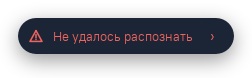
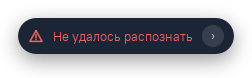
M4-B: пилюля — «›» в состоянии error как «×», детерминированные снимки; DesignReviewer PASS
- qml/Pill.qml: кнопка «подробности» — Rectangle 22×22 radius 11, pillCloseBg/pillCloseFg, знак 13 px (макет _base.py .pill .x); клик-зона прежняя
- freezeAnimations (по умолчанию false, только на съёмке): спиннер и пульсация точек в нулевой фазе — два прогона дают побайтно те же 10 PNG; тест детерминизма по sha256 для 10 видимых состояний; вид «›» зафиксирован в тесте; assert setProperty
- пересняты error/loading-model/processing (остальные 7 совпали байт в байт)
- DesignReviewer: повторная сверка PASS, 0 расхождений (5/5 прошлых пунктов + «›»); ревью Claude PASS; T-63 [x]; plans/status

Changed region(s): [[0.8056, 0.3077, 0.8889, 0.6154]]

diff --git a/qml/Pill.qml b/qml/Pill.qml
@@ -15,6 +15,7 @@ Item {
     readonly property real iconSmall: 15 // design/spec.md §8.4: alert, clock, file, x, «—».
     readonly property real iconLarge: 16 // design/spec.md §8.4: refresh, check, alert ошибки.
     readonly property real closeSize: 22 // design/spec.md §8.2: кнопка 22 × 22.
+    readonly property real closeGlyphSize: 13 // design/mockups/directions/_base.py .pill .x: кегль знака.
     readonly property real dotWidth: 5 // design/spec.md §8.4: ширина точек processing.
     readonly property var dotHeights: [5, 9, 5] // design/spec.md §8.4: три точки, высоты 5/9/5.
     readonly property real pulseOpacity: 0.5 // design/spec.md §8.4: пульсация; минимум выбран без гашения.
@@ -33,6 +34,8 @@ Item {
     property string avState: "hidden"
     property string label: ""
     property var levels: []
+    // Только для детерминированной съёмки в тестах; в программе анимации включены.
+    property bool freezeAnimations: false
 
     signal cancelClicked()
     signal detailsClicked()
@@ -219,6 +222,7 @@ Item {
                 model: root.dotHeights
 
                 Rectangle {
+                    id: dot
                     required property int index
                     required property real modelData
 
@@ -232,7 +236,9 @@ Item {
 
                     SequentialAnimation on opacity {
                         running: root.active && root.visible && root.processing
+                            && !root.freezeAnimations
                         loops: Animation.Infinite
+                        onStopped: if (root.freezeAnimations) dot.opacity = 1
                         NumberAnimation {
                             from: 1
                             to: root.pulseOpacity
@@ -270,7 +276,7 @@ Item {
                 duration: root.spinnerDuration
                 easing.type: Easing.Linear
                 loops: Animation.Infinite
-                running: root.active && root.visible && root.loading
+                running: root.active && root.visible && root.loading && !root.freezeAnimations
                 // Общий глиф после спиннера должен снова быть повёрнут на ноль градусов.
                 onStopped: glyph.rotation = 0
             }
@@ -323,18 +329,21 @@ Item {
             }
         }
 
-        Item {
+        Rectangle {
             visible: root.error
             width: root.closeSize
             height: root.closeSize
             y: (content.height - height) / 2
+            radius: width / 2
+            color: PillTheme.pillCloseBg
+            antialiasing: true
 
             Text {
                 anchors.centerIn: parent
                 text: "›"
                 font.family: root.textFamily
-                font.pixelSize: root.iconSmall
-                color: PillTheme.pillError
+                font.pixelSize: root.closeGlyphSize
+                color: PillTheme.pillCloseFg
                 renderType: Text.NativeRendering
             }
 

diff --git a/tests/xvfb/test_pill_states.py b/tests/xvfb/test_pill_states.py
@@ -16,6 +16,7 @@ import sys
 import tempfile
 from collections.abc import Iterator
 from dataclasses import dataclass
+from hashlib import sha256
 from math import ceil, floor
 from pathlib import Path
 from typing import Any
@@ -63,12 +64,24 @@ class TextMeasurement:
 
 
 @dataclass
+class DetailsButtonMeasurement:
+    visible: bool
+    background_visible: bool
+    radius: float
+    background_color: str
+    background_alpha: float
+    font_pixel_size: int
+    color: str
+
+
+@dataclass
 class RenderedState:
     width: float
     height: float
     visible: bool
     item_visible: bool
     close_visible: bool
+    details_button: DetailsButtonMeasurement
     texts: list[TextMeasurement]
     bars: list[tuple[int, float, float, str]]
     messages: list[str]
@@ -121,7 +134,12 @@ def assert_saved_snapshot(state: str, rendered: RenderedState) -> None:
 
 
 def capture_state(
-    app: Any, state: str, *, text: str | None = None, snapshot_dir: Path
+    app: Any,
+    state: str,
+    *,
+    text: str | None = None,
+    snapshot_dir: Path,
+    extra_wait_ms: int = 0,
 ) -> RenderedState:
     from PyQt5 import sip
     from PyQt5.QtCore import QPointF, QUrl, qInstallMessageHandler
@@ -146,6 +164,9 @@ def capture_state(
         assert view.status() == QQuickView.Ready, [e.toString() for e in view.errors()]
         root = view.rootObject()
         assert root is not None
+        assert root.setProperty("freezeAnimations", True), (
+            f"{state}: в QML нет свойства freezeAnimations — заморозка анимаций не сработала"
+        )
         if state in INVISIBLE:
             # Проверяем настоящее скрытие уже показанного окна через Python-мост.
             pill.show_state(PillState.LISTENING)
@@ -159,7 +180,7 @@ def capture_state(
                 text = LABELS[state]
             pill.show_state(PillState(state), text=text)
         # Даём время на Row polish и глифы; завершение появления проверяем по PNG ниже.
-        QTest.qWait(180)
+        QTest.qWait(180 + extra_wait_ms)
         app.processEvents()
         assert root.property("avState") == state
         pill_width = float(root.property("pillWidth"))
@@ -226,12 +247,30 @@ def capture_state(
         texts = []
         bars = []
         close_buttons = []
+        details_buttons = []
         for item in visual_tree(root):
             meta = item.metaObject()
             # У кнопки «×» есть круглая подложка; глиф состояния cancelled — без неё.
             if item.property("name") == "x" and item.parentItem().property("radius") is not None:
                 close_buttons.append(item.parentItem())
             if meta.indexOfProperty("elide") >= 0:
+                if item.property("text") == "›":
+                    background = item.parentItem()
+                    assert background is not None and background.property("radius") is not None, (
+                        f"{state}: у кнопки «›» отсутствует круглая подложка"
+                    )
+                    background_color = background.property("color")
+                    details_buttons.append(
+                        DetailsButtonMeasurement(
+                            visible=item.isVisible(),
+                            background_visible=background.isVisible(),
+                            radius=float(background.property("radius")),
+                            background_color=background_color.name().upper(),
+                            background_alpha=background_color.alphaF(),
+                            font_pixel_size=int(item.property("font").pixelSize()),
+                            color=item.property("color").name().upper(),
+                        )
+                    )
                 left = item.mapToItem(root, QPointF(0, 0)).x()
                 texts.append(
                     TextMeasurement(
@@ -255,12 +294,16 @@ def capture_state(
                     )
                 )
         assert len(close_buttons) == 1, f"{state}: должна существовать одна кнопка «×»"
+        assert len(details_buttons) == 1, (
+            f"{state}: должна существовать одна кнопка «›», найдено {len(details_buttons)}"
+        )
         return RenderedState(
             width=pill_width,
             height=pill_height,
             visible=view.isVisible(),
             item_visible=root.isVisible(),
             close_visible=close_buttons[0].isVisible(),
+            details_button=details_buttons[0],
             texts=texts,
             bars=sorted(bars),
             messages=messages,
@@ -329,7 +372,28 @@ def test_pill_state(state: str, rendered_states: dict[str, RenderedState]) -> No
     assert rendered.close_visible == (state in {"listening", "listening-silent"}), (
         f"{state}: неверная видимость кнопки «×»"
     )
-    # Цвета, столбики и «×» измеряются в QML, независимо от полей снимка.
+    details = rendered.details_button
+    assert details.visible == (state == "error"), f"{state}: неверная видимость знака «›»"
+    assert details.background_visible == (state == "error"), (
+        f"{state}: неверная видимость подложки кнопки «›»"
+    )
+    if state == "error":
+        assert details.radius == 11, (
+            f"{state}: радиус подложки кнопки «›» {details.radius}, ожидался 11"
+        )
+        assert details.background_color == "#FFFFFF", (
+            f"{state}: цвет подложки кнопки «›» {details.background_color}, ожидался #FFFFFF"
+        )
+        assert abs(details.background_alpha - 0.12) <= 0.005, (
+            f"{state}: альфа подложки кнопки «›» {details.background_alpha}, ожидалась 0.12 ± 0.005"
+        )
+        assert details.font_pixel_size == 13, (
+            f"{state}: размер шрифта знака «›» {details.font_pixel_size} px, ожидался 13 px"
+        )
+        assert details.color == "#C4CDDC", (
+            f"{state}: цвет знака «›» {details.color}, ожидался #C4CDDC"
+        )
+    # Цвета, столбики, «×» и «›» измеряются в QML, независимо от полей снимка.
     # «—» и «›» — символы иконок со своими цветами по §8.4; здесь проверяется подпись.
     captions = [text for text in rendered.texts if text.text not in {"—", "›"}]
     assert len(captions) == 1
@@ -363,6 +427,27 @@ def test_pill_state(state: str, rendered_states: dict[str, RenderedState]) -> No
     elif state in {"listening-silent", "limit"}:
         assert len(rendered.bars) == 9
         assert all(height == 4 for _, _, height, _ in rendered.bars)
+
+
+@pytest.mark.parametrize("state", [state for state in LABELS if state not in INVISIBLE])
+def test_pill_snapshots_are_deterministic(
+    state: str,
+    pill_app: Any,
+    rendered_states: dict[str, RenderedState],
+    tmp_path: Path,
+) -> None:
+    first = rendered_states[state]
+    # Сдвигаем фазу на четверть периода, чтобы без заморозки сравнение падало
+    # даже при одинаковой скорости двух рендеров. Повторные PNG не публикуются.
+    second = capture_state(pill_app, state, snapshot_dir=tmp_path, extra_wait_ms=250)
+    assert not second.messages, f"{state}: сообщения Qt\n" + "\n".join(second.messages)
+    assert_saved_snapshot(state, second)
+    assert first.snapshot is not None and second.snapshot is not None
+    first_hash = sha256(first.snapshot.read_bytes()).hexdigest()
+    second_hash = sha256(second.snapshot.read_bytes()).hexdigest()
+    assert first_hash == second_hash, (
+        f"{state}: PNG зависит от времени съёмки: {first_hash} != {second_hash}"
+    )
 
 
 @pytest.mark.parametrize("state", [state for state in LABELS if state not in INVISIBLE])

diff --git a/docs/plans.md b/docs/plans.md
@@ -267,7 +267,7 @@ R14 гонка WirePlumber · `EBUSY` при эксклюзивном захва
 - [x] `platform/hotkey.py`: автомат PTT/toggle `Idle→Recording→Processing`, фильтр автоповтора, порог 0,3 с, лимит 120 с, `duplicate`/`not-grabbed`; интерфейс `HotkeyBackend` (X11; evdev P2) + unit на синтетических событиях.
 - [x] `platform/shortcuts_conflict.py`: `ShortcutConflictSource` — KDE парсер `kglobalshortcutsrc` (`Alt+F2` → «Открыть строку поиска и запуск»); FLY парсер `keyshortcutrc` (у заказчика пуст → откат на системный) + `FLYWM_*` → подпись из `<локаль>.miscrc` (например `ru_RU.UTF-8.miscrc`, откат `en`); нет подписи — честное «не знаю» + unit на реальных файлах.
 - [x] `platform/paste.py`: копия **всех** форматов `QMimeData` → только `text/plain` (+`x-kde-passwordManagerHint=secret`, P1) → 50 мс → комбинация по `WM_CLASS` (VTE-терминалы `konsole`, `fly-term`, `yakuake`, `alacritty` → `Ctrl+Shift+V`; **`xterm`, `rxvt` и неопознанные терминалы → `Shift+Insert` + PRIMARY** — S4 кейс G, решение р6-3: `Ctrl+Shift+V` даёт литеральный байт 026) → 100 мс → восстановить **только если буфер ещё наш** (`ownsClipboard`); исходник с hint=secret не восстанавливать → «Буфер очищен» (У11/У40, T-14); нормализация: `\r\n` → пробел, все C0/C1 (`\x00–\x1f`, `\x7f–\x9f`) удаляются, Enter не синтезируется; окно при вставке ≠ запомненному → только буфер + `clipboard-only` (У12, T-15); режим «только буфер»; ветка FLY — тип из чёрного списка клип-менеджера (по S4) + xvfb-тест с `TextEdit` и вторым окном.
-- [~] `ui/pill.py` + `qml/Pill.qml`: 12 состояний спеки §8.4 (`hidden · loading-model · listening · listening-silent · limit · processing · done 500 · clipboard-only 1200 · empty 1000 · cancelled 800 · error 3000 · disabled`), ширина 172→320 без elide, 9 столбиков `h=max(3,round(l*20))`, «×», позиция У10 (низ по центру `availableGeometry` монитора активного окна, 48 px; struts при расхождении), показ ≤ 100 мс, re-assert «наверх» + проверка перекрытия; ветка FLY — атомы анимации; без композитора — XShape; глиф `clock` (У8), спиннер 1 об/с (У9) — референс `design/refs/09-pill.png` (+`-dark`); xvfb-скриншоты 12 состояний. **2026-09-14 (зона B): ревью DesignReviewer закрыто — размер окна детерминирован (контент + поля 18/18/18 и 24 снизу, тест на все 12 состояний), снимки пересняты после завершения fade-in (альфа фона 240) и сохраняются атомарно, `processing` и `cancelled` больше не обрезаются, плоские столбики `limit` = 4 px (`bar-h-flat`), как в `listening-silent`. ИБ T2 (У52/У54) закрыт: `_NET_WM_DESKTOP=0xFFFFFFFF`, перекрытие по стеку и геометрии, режим совместимости индикатора при полноэкранном активном окне, `visible` без насоса событий. Снимки: `design/refs/impl/pill/*.png` (10 видимых состояний). ОСТАЛОСЬ: [ ] повторная сверка DesignReviewer по пересняты снимкам; [ ] живой прогон в KDE и во Fly (Alt+Tab, панель, струты, CPU ≤ 3 %, показ ≤ 100 мс на реальном WM).**
+- [~] `ui/pill.py` + `qml/Pill.qml`: 12 состояний спеки §8.4 (`hidden · loading-model · listening · listening-silent · limit · processing · done 500 · clipboard-only 1200 · empty 1000 · cancelled 800 · error 3000 · disabled`), ширина 172→320 без elide, 9 столбиков `h=max(3,round(l*20))`, «×», позиция У10 (низ по центру `availableGeometry` монитора активного окна, 48 px; struts при расхождении), показ ≤ 100 мс, re-assert «наверх» + проверка перекрытия; ветка FLY — атомы анимации; без композитора — XShape; глиф `clock` (У8), спиннер 1 об/с (У9) — референс `design/refs/09-pill.png` (+`-dark`); xvfb-скриншоты 12 состояний. **2026-09-14 (зона B): ревью DesignReviewer закрыто — размер окна детерминирован (контент + поля 18/18/18 и 24 снизу, тест на все 12 состояний), снимки пересняты после завершения fade-in (альфа фона 240) и сохраняются атомарно, `processing` и `cancelled` больше не обрезаются, плоские столбики `limit` = 4 px (`bar-h-flat`), как в `listening-silent`. ИБ T2 (У52/У54) закрыт: `_NET_WM_DESKTOP=0xFFFFFFFF`, перекрытие по стеку и геометрии, режим совместимости индикатора при полноэкранном активном окне, `visible` без насоса событий. Снимки: `design/refs/impl/pill/*.png` (10 видимых состояний). ОСТАЛОСЬ: [x] повторная сверка DesignReviewer по пересняты снимкам — **PASS 2026-09-14, 0 расхождений** (5/5 прошлых пунктов закрыты с числами; шестое — «›» в `error` приведено к виду «×»; снимки детерминированы, `freezeAnimations` только на съёмке); [ ] живой прогон в KDE и во Fly (Alt+Tab, панель, струты, CPU ≤ 3 %, показ ≤ 100 мс на реальном WM).**
 - [x] Инвариант О4 (`ui/indicators.py`): запись идёт, пока виден ≥ 1 индикатор; потеря SNI во время записи → пилюля принудительно; потеря всех → стоп + уведомление. **2026-09-11: реализовано (`indicator_visible`, `IndicatorGuard`), покрыто unit.**
 - [x] `ui/tray.py` + `ui/tray_icons.py`: `QSystemTrayIcon`, 6 состояний (`idle · listening · processing · done · error · nokey`), подсказки, ретрай регистрации ≤ 30 с (watcher на шине); `TrayIconProvider`: KDE — по имени из hicolor `status/astravoice-tray-{idle,listening,processing,done,error,nokey}` (перекраска; префикс без дефиса — иначе KIconLoader срезает до `astra`, spec §9.1), FLY — SVG явных цветов по яркости панели; меню спеки §9.2 (состав/неактивность: «Готов/Слушаю…» · «Отмена» · «Модель ▸» · «Скопировать последний текст» · «Настройки…» `Ctrl+,` · «Проверить обновления» · «О программе» · «Выход» `Ctrl+Q`) — референс `design/refs/09-tray.png` (+`-dark`); баннер «трей недоступен» > 30 с; xvfb-ветка `isSystemTrayAvailable()=false`. **2026-09-14 (зона B): ИБ T2 закрыт — У51 (в KDE значок доказан только при живом `org.kde.plasmashell`), У55 (показ только после подтверждённого `IsStatusNotifierHostRegistered`; ранний `isSystemTrayAvailable()` не зовём — Qt кэширует первый отрицательный ответ в generic/Fly), У53 (работа с шиной вынесена из GUI-потока: `start`/`registered`/`set_state`/`stop` не блокируют), У56 (`serviceOwnerChanged`, чистка устаревшего баннера через `notify.drop_pending`). Иконки: правила `.st` вынесены из `<style id="current-color-scheme">` в отдельный `<style>` (KIconLoader заменяет первый при перекраске), тёмные варианты цветов состояний убраны — один цвет на состояние по spec §9.1; правится генератор `design/brand/_build-logo-pack.py`, тест структуры `tests/unit/test_tray_icon_svg.py`. ОСТАЛОСЬ: [ ] живой прогон в KDE и во Fly (Plasma рисует наш знак и перекрашивает его под панель; меню на реальной панели).**
 - [x] Оркестрация в `app.py`: активное окно запоминается **до** показа пилюли; `record.start{device,limit_s,silence_db,insert,utterance_id}`/`stop`/`cancel`; очередь 1 (S14-A2); крах воркера во время записи/обработки → пилюля `error` «Распознавание перезапущено», вставки нет, таймеры вставки отменены (О1); «последний текст» только в памяти GUI. **2026-09-11: автомат — `core/dictation.py`, проводка в Qt — `runtime.py`, включение — `app.py`; поздний результат старого поколения отбрасывается, перезапуск воркера даёт `error`. Живой прогон в KDE и Fly — не сделан.**

diff --git a/docs/test-plan.md b/docs/test-plan.md
@@ -129,9 +129,9 @@
 | T-58 | U | негативный кейс (У59): «Скопировать последний текст» → в `QMimeData` буфера есть `x-kde-passwordManagerHint=secret` (и Fly-тип в сеансе Fly), `text/plain` = фраза; журнал и уведомления без фразы | M4 | [ ] |
 | T-59 | U | негативный кейс (У60): фейковый воркер отвечает `record.limit`, затем на `record.stop` — `error{bad-state}`, на `recognize` — `result` → оркестратор доставляет фразу (`pasted`), пилюля без «ошибка», `fsm.state == IDLE` после завершения | M4 | [ ] |
 | T-60 | U | негативный кейс (У61): `record.cancel` без ответа 1,5 с → отправлен `audio.close`; нет `audio.closed` ещё 2 с → `supervisor.stop()`/перезапуск вызван; `record.cancel` бросает при отправке → тот же путь | M4 | [ ] |
-| T-61 | U | гейт Qt-окружения (урок 005, правило 5): при обязательном Qt (`-m unit/xvfb` или `ASTRA_VOICE_REQUIRE_QT=1`) подпроцесс проверяет плагин SVG (`QImageReader`) и QML-модули QtQuick/Controls/Layouts/Shapes + `QtObject`; провал → `UsageError` с именами пакетов Debian; без обязательного Qt не запускается; ровно один запуск на сессию; разбор вывода покрыт без реального Qt | M4 | [ ] |
-| T-62 | I | плавающий сбой движка в CI (пустой текст на `732a116`, `e117e1b`): job `engine` печатает CPU раннера (model name, nproc, SIMD-флаги); сообщения assert'ов `test_engine_gigaam.py` содержат `_diag` (repr текста, infer_ms, cancelled, engine_version, onnxruntime, providers, CPU); условия assert'ов не ослаблены, retry нет | M4 | [ ] |
-| T-63 | X | снимки пилюли детерминированы: два прогона `tests/xvfb/test_pill_states.py` подряд дают побайтно одинаковые 10 PNG (анимации спиннера/точек — в фиксированной фазе); `error.png`: «›» — круг 22×22 RGBA≈(44,53,68,242) с правым краем x=224, знак #C4CDDC (как «×») | M4 | [ ] |
+| T-61 | U | гейт Qt-окружения (урок 005, правило 5): при обязательном Qt (`-m unit/xvfb` или `ASTRA_VOICE_REQUIRE_QT=1`) подпроцесс проверяет плагин SVG (`QImageReader`) и QML-модули QtQuick/Controls/Layouts/Shapes + `QtObject`; провал → `UsageError` с именами пакетов Debian; без обязательного Qt не запускается; ровно один запуск на сессию; разбор вывода покрыт без реального Qt | M4 | [x] 514956a: CI unit зелёный с гейтом; 138 тестов гейта |
+| T-62 | I | плавающий сбой движка в CI (пустой текст на `732a116`, `e117e1b`): job `engine` печатает CPU раннера (model name, nproc, SIMD-флаги); сообщения assert'ов `test_engine_gigaam.py` содержат `_diag` (repr текста, infer_ms, cancelled, engine_version, onnxruntime, providers, CPU); условия assert'ов не ослаблены, retry нет | M4 | [x] 514956a: шаг «CPU раннера» в логе, _diag в assert'ах; проверка гипотезы — на следующем сбое |
+| T-63 | X | снимки пилюли детерминированы: два прогона `tests/xvfb/test_pill_states.py` подряд дают побайтно одинаковые 10 PNG (анимации спиннера/точек — в фиксированной фазе); `error.png`: «›» — круг 22×22 RGBA≈(44,53,68,242) с правым краем x=224, знак #C4CDDC (как «×») | M4 | [x] Юрка: два прогона подряд — 10 PNG побайтно одинаковы; DesignReviewer PASS по error.png |
 
 Руками Юрки на машине (threat-model §8, до T3/R2): T-12, T-13, T-14, T-18, T-25, T-29, T-34, T-35, T-42, T-45 (живые Kate/Konsole/Firefox/LibreOffice/fly-term после пробы захвата), хоткей и вставка при активной ru-группе и `grp:ctrl_shift_toggle` (S4 PASS; при расхождении — дамп `xkbcomp -xkb "$DISPLAY" -`). T2 security-analyst — на каждый диф `helper/`, `security/`, `updates/`, `net/`.
 

diff --git a/docs/status.md b/docs/status.md
@@ -62,6 +62,10 @@
 
 - 2026-09-14: Юрка — **пробел M4, найден при подготовке пробы заказчиком**: GUI (`DictationRuntime.start()`) никогда не шлёт `model.load`; единственный отправитель — отладочный `--debug-transcribe` (`app.py::_debug_model_request`); воркер на `recognize` без движка отвечает `no-model`. В сборке `0.1.0~m4` хоткей запишет звук, а распознать нечем; `dictate50.sh` («дождитесь загрузки модели») невыполним. Каталог/онбординг — M5, но цикл диктовки без загрузки модели живьём не принять. Решение: минимальный мостик — общий построитель запроса `core/model_request.py`, `model.load` при старте и после перезапуска воркера по `model_dir`/`model_id`+`model_revision` из `settings.extra`, пилюля `loading-model`/`error` простым языком, без UI выбора модели (это M5). Сборка `0.1.0~m4.1`.
 
+- 2026-09-14: Юрка — CI на `514956a` **зелёный 6/6** (run 34843657009): job `unit` с гейтом Qt-окружения, `engine` 11 passed. Первый факт для гипотезы о плавающем сбое: зелёный `engine` шёл на **AMD EPYC 7763, 4 vCPU, SIMD только avx2** (без VNNI/avx512). Значит, если сбой зависит от CPU, красные прогоны (`732a116`, `e117e1b`) были на Intel Xeon (avx512+VNNI); подтвердится строкой «CPU раннера» на следующем сбое.
+
+- 2026-09-14: Юрка — пилюля: DesignReviewer **PASS** (0 расхождений; «›» в `error` как «×»; снимки детерминированы), ревью Claude PASS (два minor в тесте закрываются перед коммитом). Отложенные nit вне дифа: `src/astra_voice/ui/pill.py` `_visibility_changed` падает `RuntimeError: wrapped C/C++ object … QQuickView has been deleted`, если `QQuickView` разрушен раньше `Pill` (порядок разборки в тестах правильный, в программе проверить при shutdown — M5/M11); minor 3 ревью CI (`qml-module-qtquick-window2`/`qtgraphicaleffects` не подтверждены гейтом).
+
 ## Smoke / demo checks
 - [~] M0: `arch/spikes/S*.md` — 5 вердиктов; S1/S4/S5 отдельно для KDE и Fly; S3 `[x]` (таблица p95/VmHWM на 1.24.4 — `arch/spikes/S3.md` §4).
 - [~] M1: живой прогон на KDE заказчика 2026-09-09 (`spikes/m1_live/`, лог `out/live_kde_*`): `--version` и `apt install` — PASS; окно **900×588** клиентской + рамка 4/4/28/4 = **908×620** внешней, `WM_NAME`/`_NET_WM_NAME` «Astra Voice», `_KDE_NET_WM_DESKTOP_FILE=astra-voice`, `min 900×588`, журнал «сеанс=KDE политика=absent», QML-warnings 0; single-instance — код 0 за **0,15 с**, «получена команда show» в журнале, процессов 1; CI на `e03d6ae` зелёный (run 34358041504). **RSS закрыт** программным рендером (`spikes/m1_live/rss.md`): 167 740 → **102 580 кБ**, запас 16,5 % до порога 122 880. **Не закрыто:** окно светлое при схеме сессии `AstraDark` (`themeSource` не подан в QML); `show` не разворачивает свёрнутое окно; процесс переживает закрытие окна; `settings.json` не создаётся. Восемь дефектов — `spikes/m1_live/README.md`.
